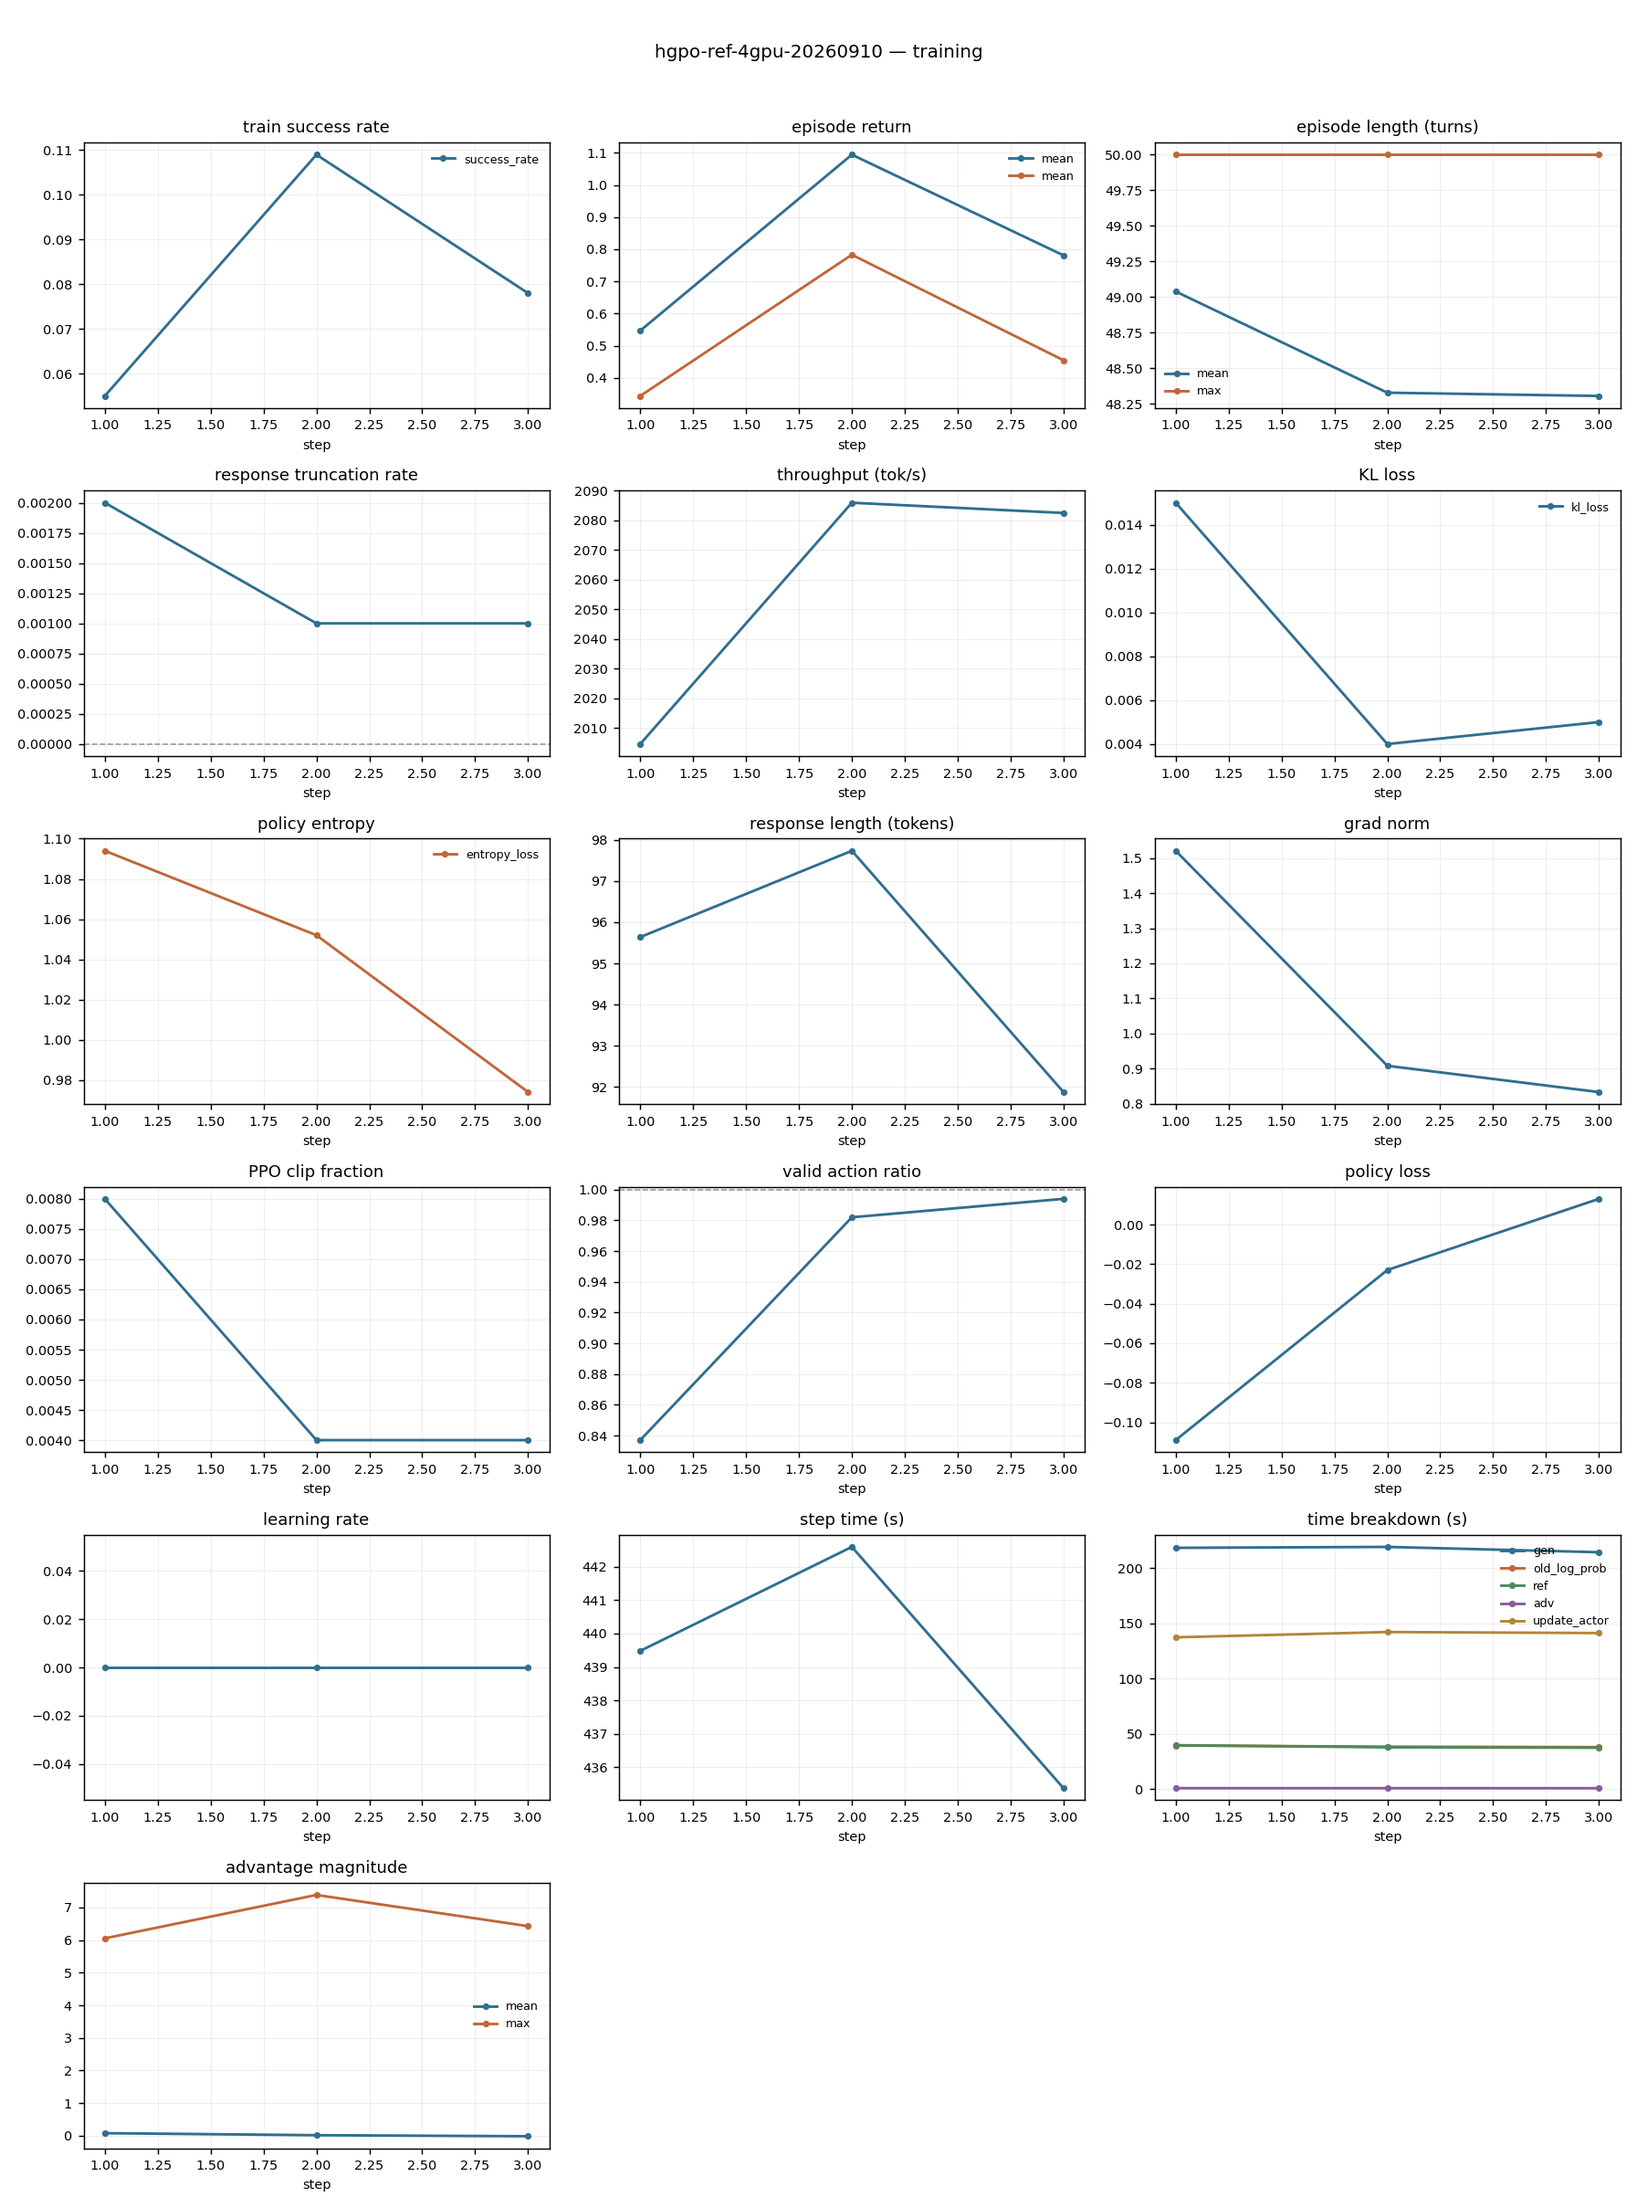
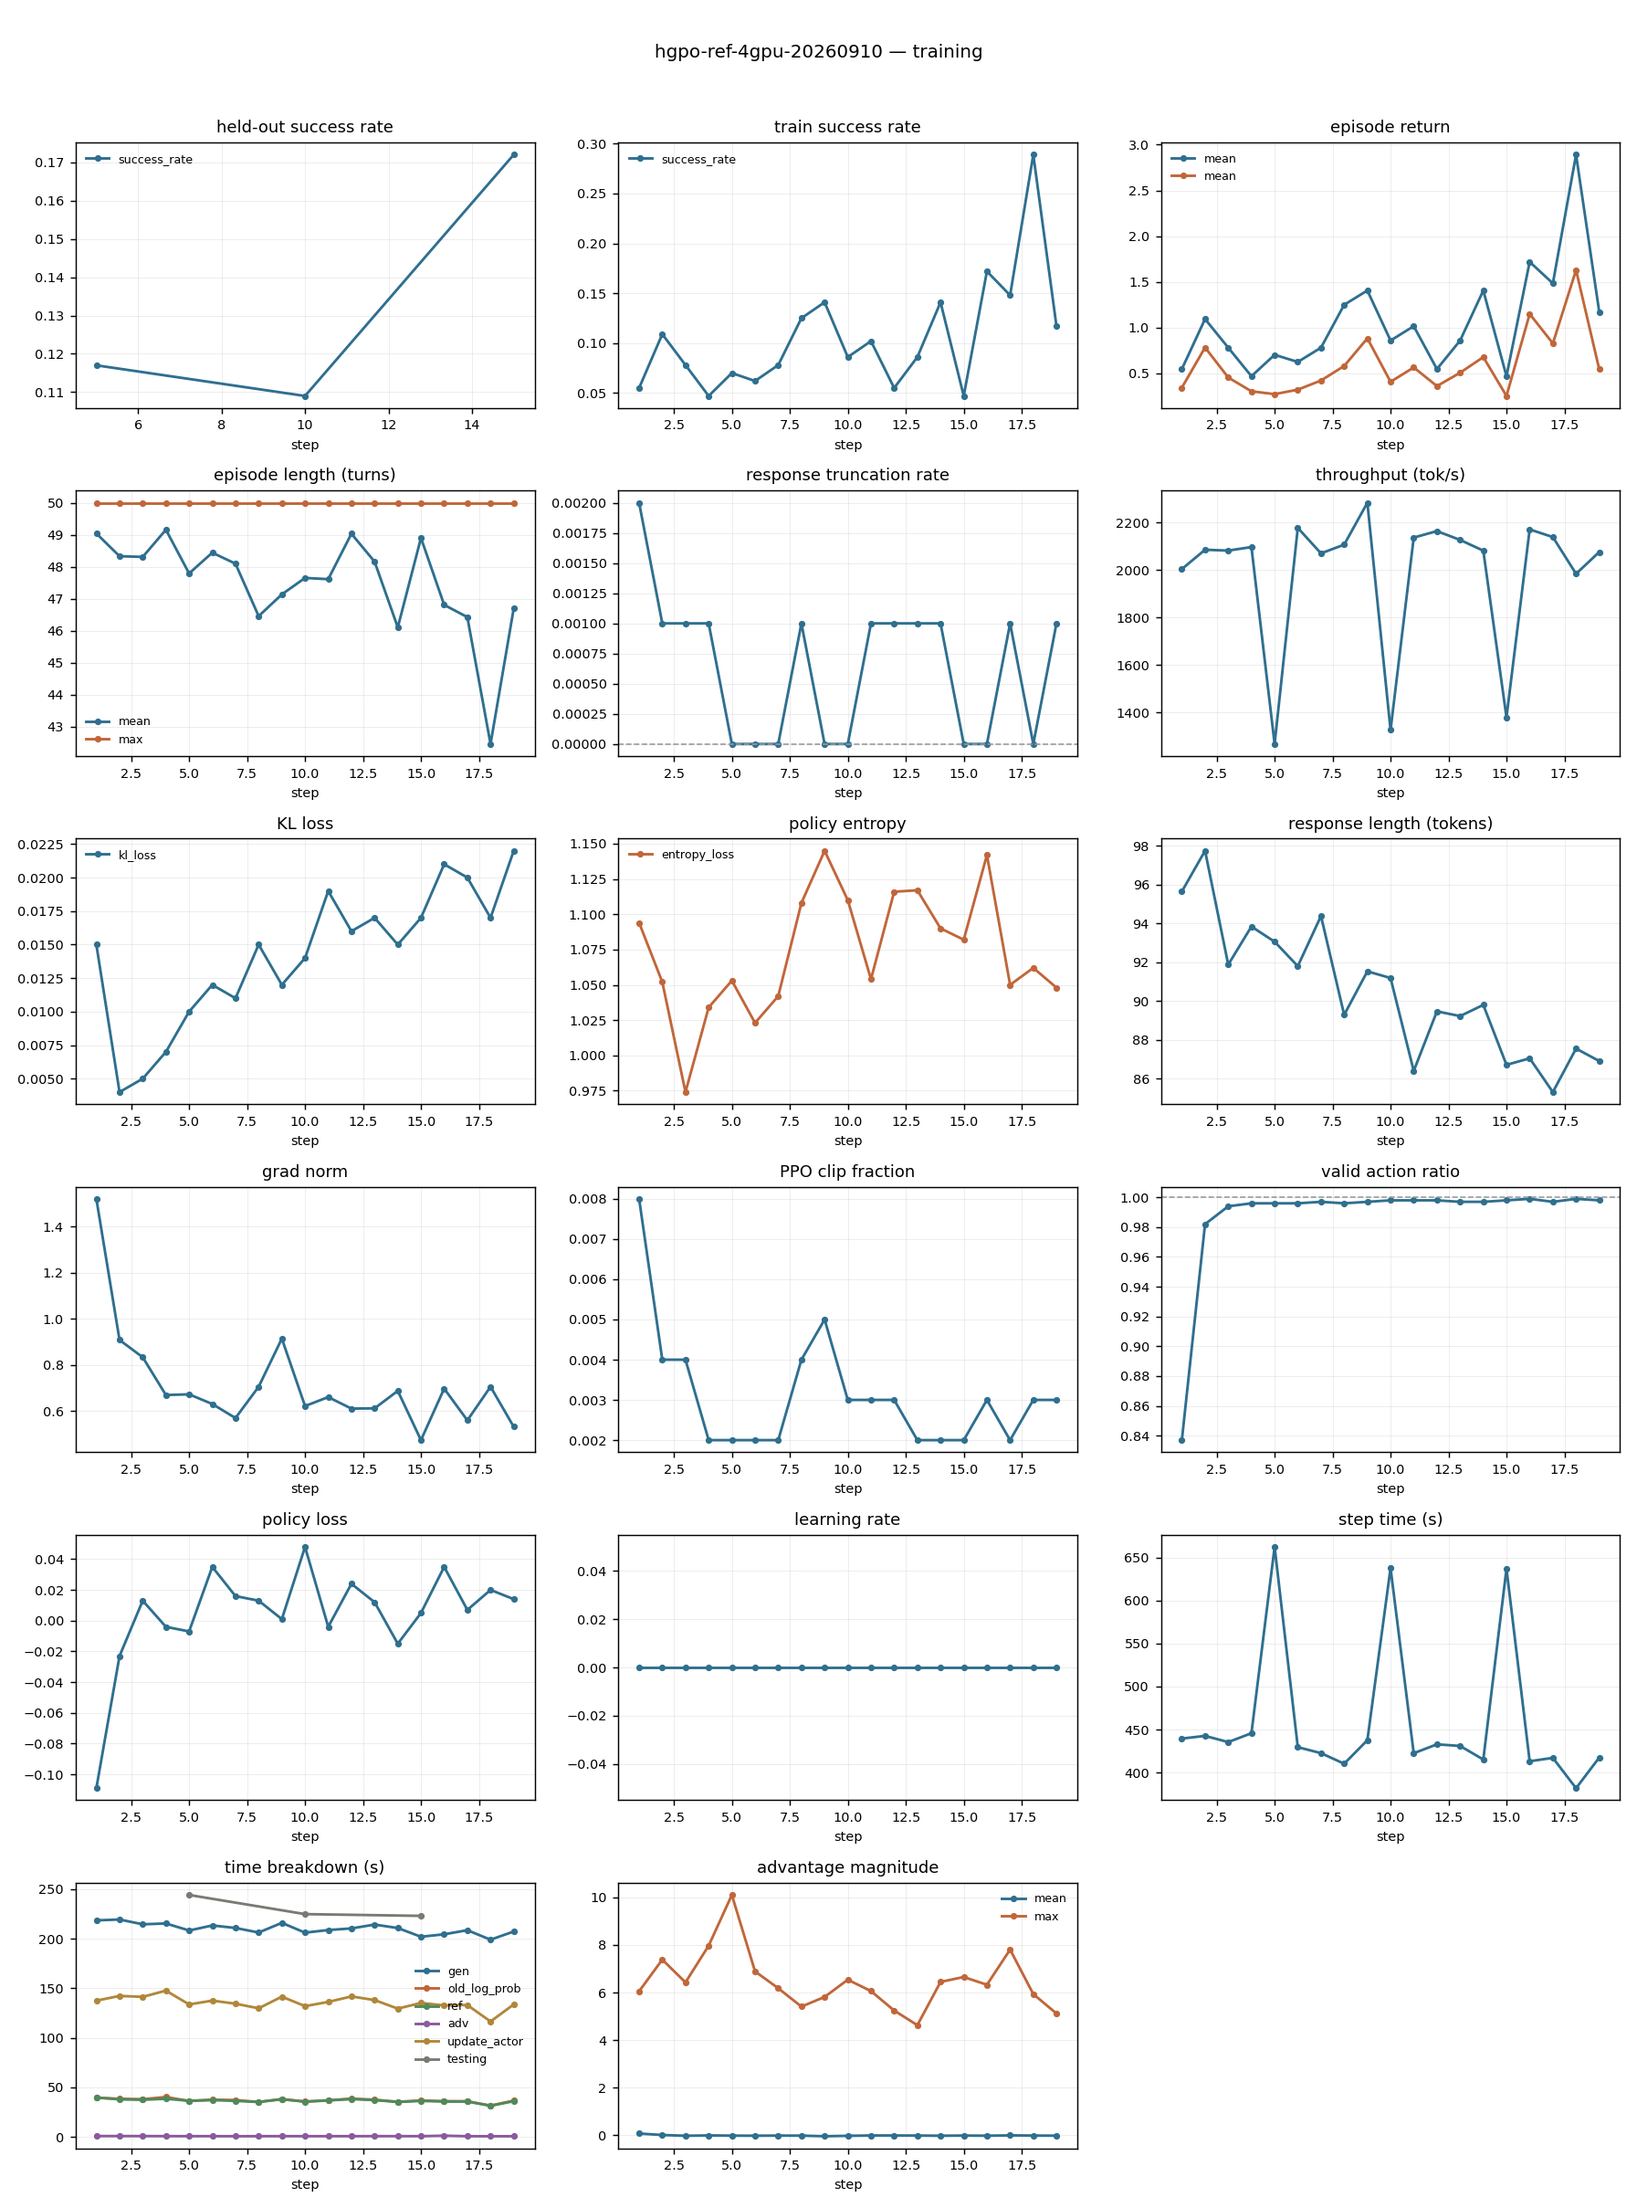
hgpo-ref-4gpu: early held-out through step 15; monitor via metrics.jsonl
Claude-Session: https://claude.ai/code/session_01Eywpmpzk7tuN6B1qiJfqQk

diff --git a/experiments/hgpo-ref-4gpu-20260910/NOTES.md b/experiments/hgpo-ref-4gpu-20260910/NOTES.md
@@ -63,3 +63,20 @@ alongside it in this container.** A monitor alerts at 16k, 18k and 19.5k.
 2026-09-11**. That is slower than the ~15-17 h estimated from G2PO (~335 s/step): HGPO
 uses a 4096-token prompt cap against G2PO's 2048. The first three metric rows parsed
 cleanly (73 fields per step: KL loss, pg loss, rewards, advantages, valid-action ratio).
+
+## Early held-out (16:00, step 19)
+
+| step | 5 | 10 | 15 |
+|---|---|---|---|
+| hgpo-ref-4gpu | 11.7 | 10.9 | 17.2 |
+| G2PO reference | 12.5 | 11.7 | 28.9 |
+| our base | 10.2 | 10.9 | 17.2 |
+
+Level with base and behind G2PO at step 15, but these are the noisiest evaluations there
+are (±7-9 at 2SE). HGPO's published curve is only judged at 100 and 160. Pace has
+settled at 431 s/step.
+
+Monitoring note: two tqdm-tailing monitors never fired (the progress bar does not reach
+train.log as newline-terminated lines the pipe can see). Evaluations are now watched by
+polling `metrics.jsonl`, which the mirror writes every 5 minutes. That poll also flags
+the run ending, or train.log going unchanged for 30 minutes.
